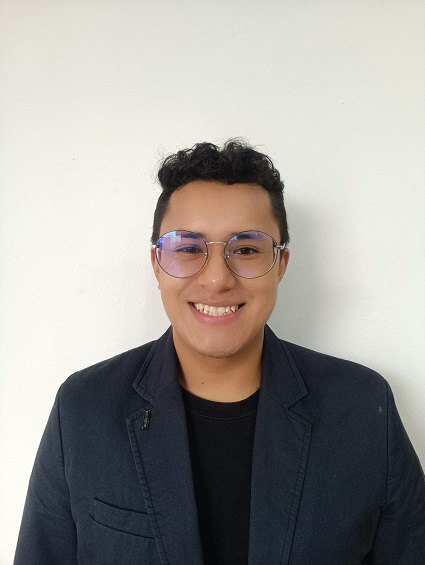
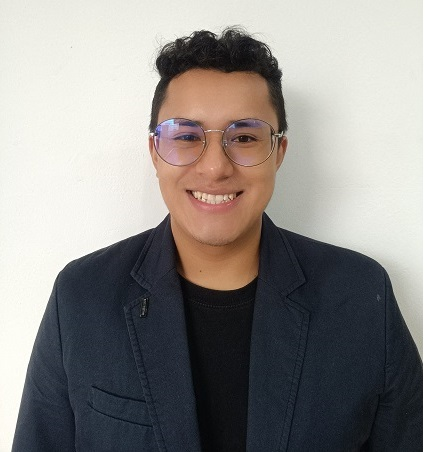
Portafolio agregado

diff --git a/index.html b/index.html
@@ -22,8 +22,6 @@
                 <ul>
                     <li><a href="#inicio">Inicio</a></li>
                     <li><a href="#sobremi">Sobre mi</a></li>
-                    <li><a href="#skills">Skills</a></li>
-                    <li><a href="#curriculum">Curriculum</a></li>
                     <li><a href="#portafolio">Portafolio</a></li>
                     <li><a href="#contacto">Contacto</a></li>
 
@@ -38,7 +36,7 @@
     <section id="inicio" class="inicio">
         <div class="contenido-banner">
             <div class="contenedor-img">
-                <img src="img/hero.png" styles="height:10px" alt="Foto">
+                <img src="img/Foto Zaid.jpg" styles="height:10px" alt="Foto">
             </div>
             <h1>Zaid Rodriguez</h1>
             <h2>Desarrollador de software</h2>
@@ -166,6 +164,62 @@
 
 
     </section>
+
+    <!-- Sección portafolio -->
+    <section id="portafolio" class="portafolio">
+        <div class="contenido-seccion">
+            <h2>Portafolio</h2>
+            <div class="galeria">
+                <div class="proyecto">
+                    <img src="img/p1.jpg" alt="" class="src">
+                    <div class="overlay">
+                        <h3>Diseño Creativo</h3>
+                        <p>Fotografía</p>
+                    </div>
+                </div>
+                <div class="proyecto">
+                    <img src="img/p2.jpg" alt="" class="src">
+                    <div class="overlay">
+                        <h3>Diseño Creativo</h3>
+                        <p>Fotografía</p>
+                    </div>
+                </div>
+                <div class="proyecto">
+                    <img src="img/p3.jpg" alt="" class="src">
+                    <div class="overlay">
+                        <h3>Diseño Creativo</h3>
+                        <p>Fotografía</p>
+                    </div>
+                </div>
+                <div class="proyecto">
+                    <img src="img/p4.jpg" alt="" class="src">
+                    <div class="overlay">
+                        <h3>Diseño Creativo</h3>
+                        <p>Fotografía</p>
+                    </div>
+                </div>
+                <div class="proyecto">
+                    <img src="img/p5.jpg" alt="" class="src">
+                    <div class="overlay">
+                        <h3>Diseño Creativo</h3>
+                        <p>Fotografía</p>
+                    </div>
+                </div>
+                <div class="proyecto">
+                    <img src="img/p6.jpg" alt="" class="src">
+                    <div class="overlay">
+                        <h3>Diseño Creativo</h3>
+                        <p>Fotografía</p>
+                    </div>
+                </div>
+                
+
+            </div>
+        </div>
+    </section>
+
+
+
 </body>
 
 </html>

diff --git a/estilo.css b/estilo.css
@@ -241,3 +241,72 @@ html{
 }
 
 
+/* Seccion portafolio */
+
+.portafolio{
+    background-color: #252A2E;
+    color: #fff;
+    padding: 50px 20px;
+}
+
+.portafolio .contenido-seccion{
+    max-width: 1100px;
+    margin: auto;
+}
+
+.portafolio h2{
+    font-size: 48px;
+    font-family:  'Righteous';
+    text-align: center;
+    padding: 20px 0;
+}
+
+.portafolio .galeria {
+    display: flex;
+    flex-wrap: wrap;
+    justify-content: space-around;
+}
+
+.portafolio .galeria .proyecto{
+    position: relative;
+    max-width: 340px;
+    height: fit-content;
+    margin: 10px;
+    cursor: pointer;
+
+}
+
+.portafolio .galeria .proyecto img{
+    width: 100%;
+    display: block;
+}
+
+.portafolio .galeria .proyecto .overlay{
+    position: absolute;
+    top:0;
+    width: 100%;
+    height: 100%;
+    text-align: center;
+    background: linear-gradient(rgba(28,182,152,.8),rgba(28,182,152,.8));
+    display: flex;
+    flex-direction: column;
+    justify-content: center;
+    transition: 1s;
+    font-size: 18px;
+    letter-spacing: 3px;
+    opacity: 0;
+}
+
+.portafolio .galeria .proyecto .overlay h3{
+    margin-bottom: 20px;
+    transition: 1s;
+}
+
+.portafolio .galeria .proyecto .overlay:hover{
+    opacity: 1;
+}
+
+.portafolio .galeria .proyecto .overlay:hover h3{
+    margin-bottom: 0px;
+}
+
